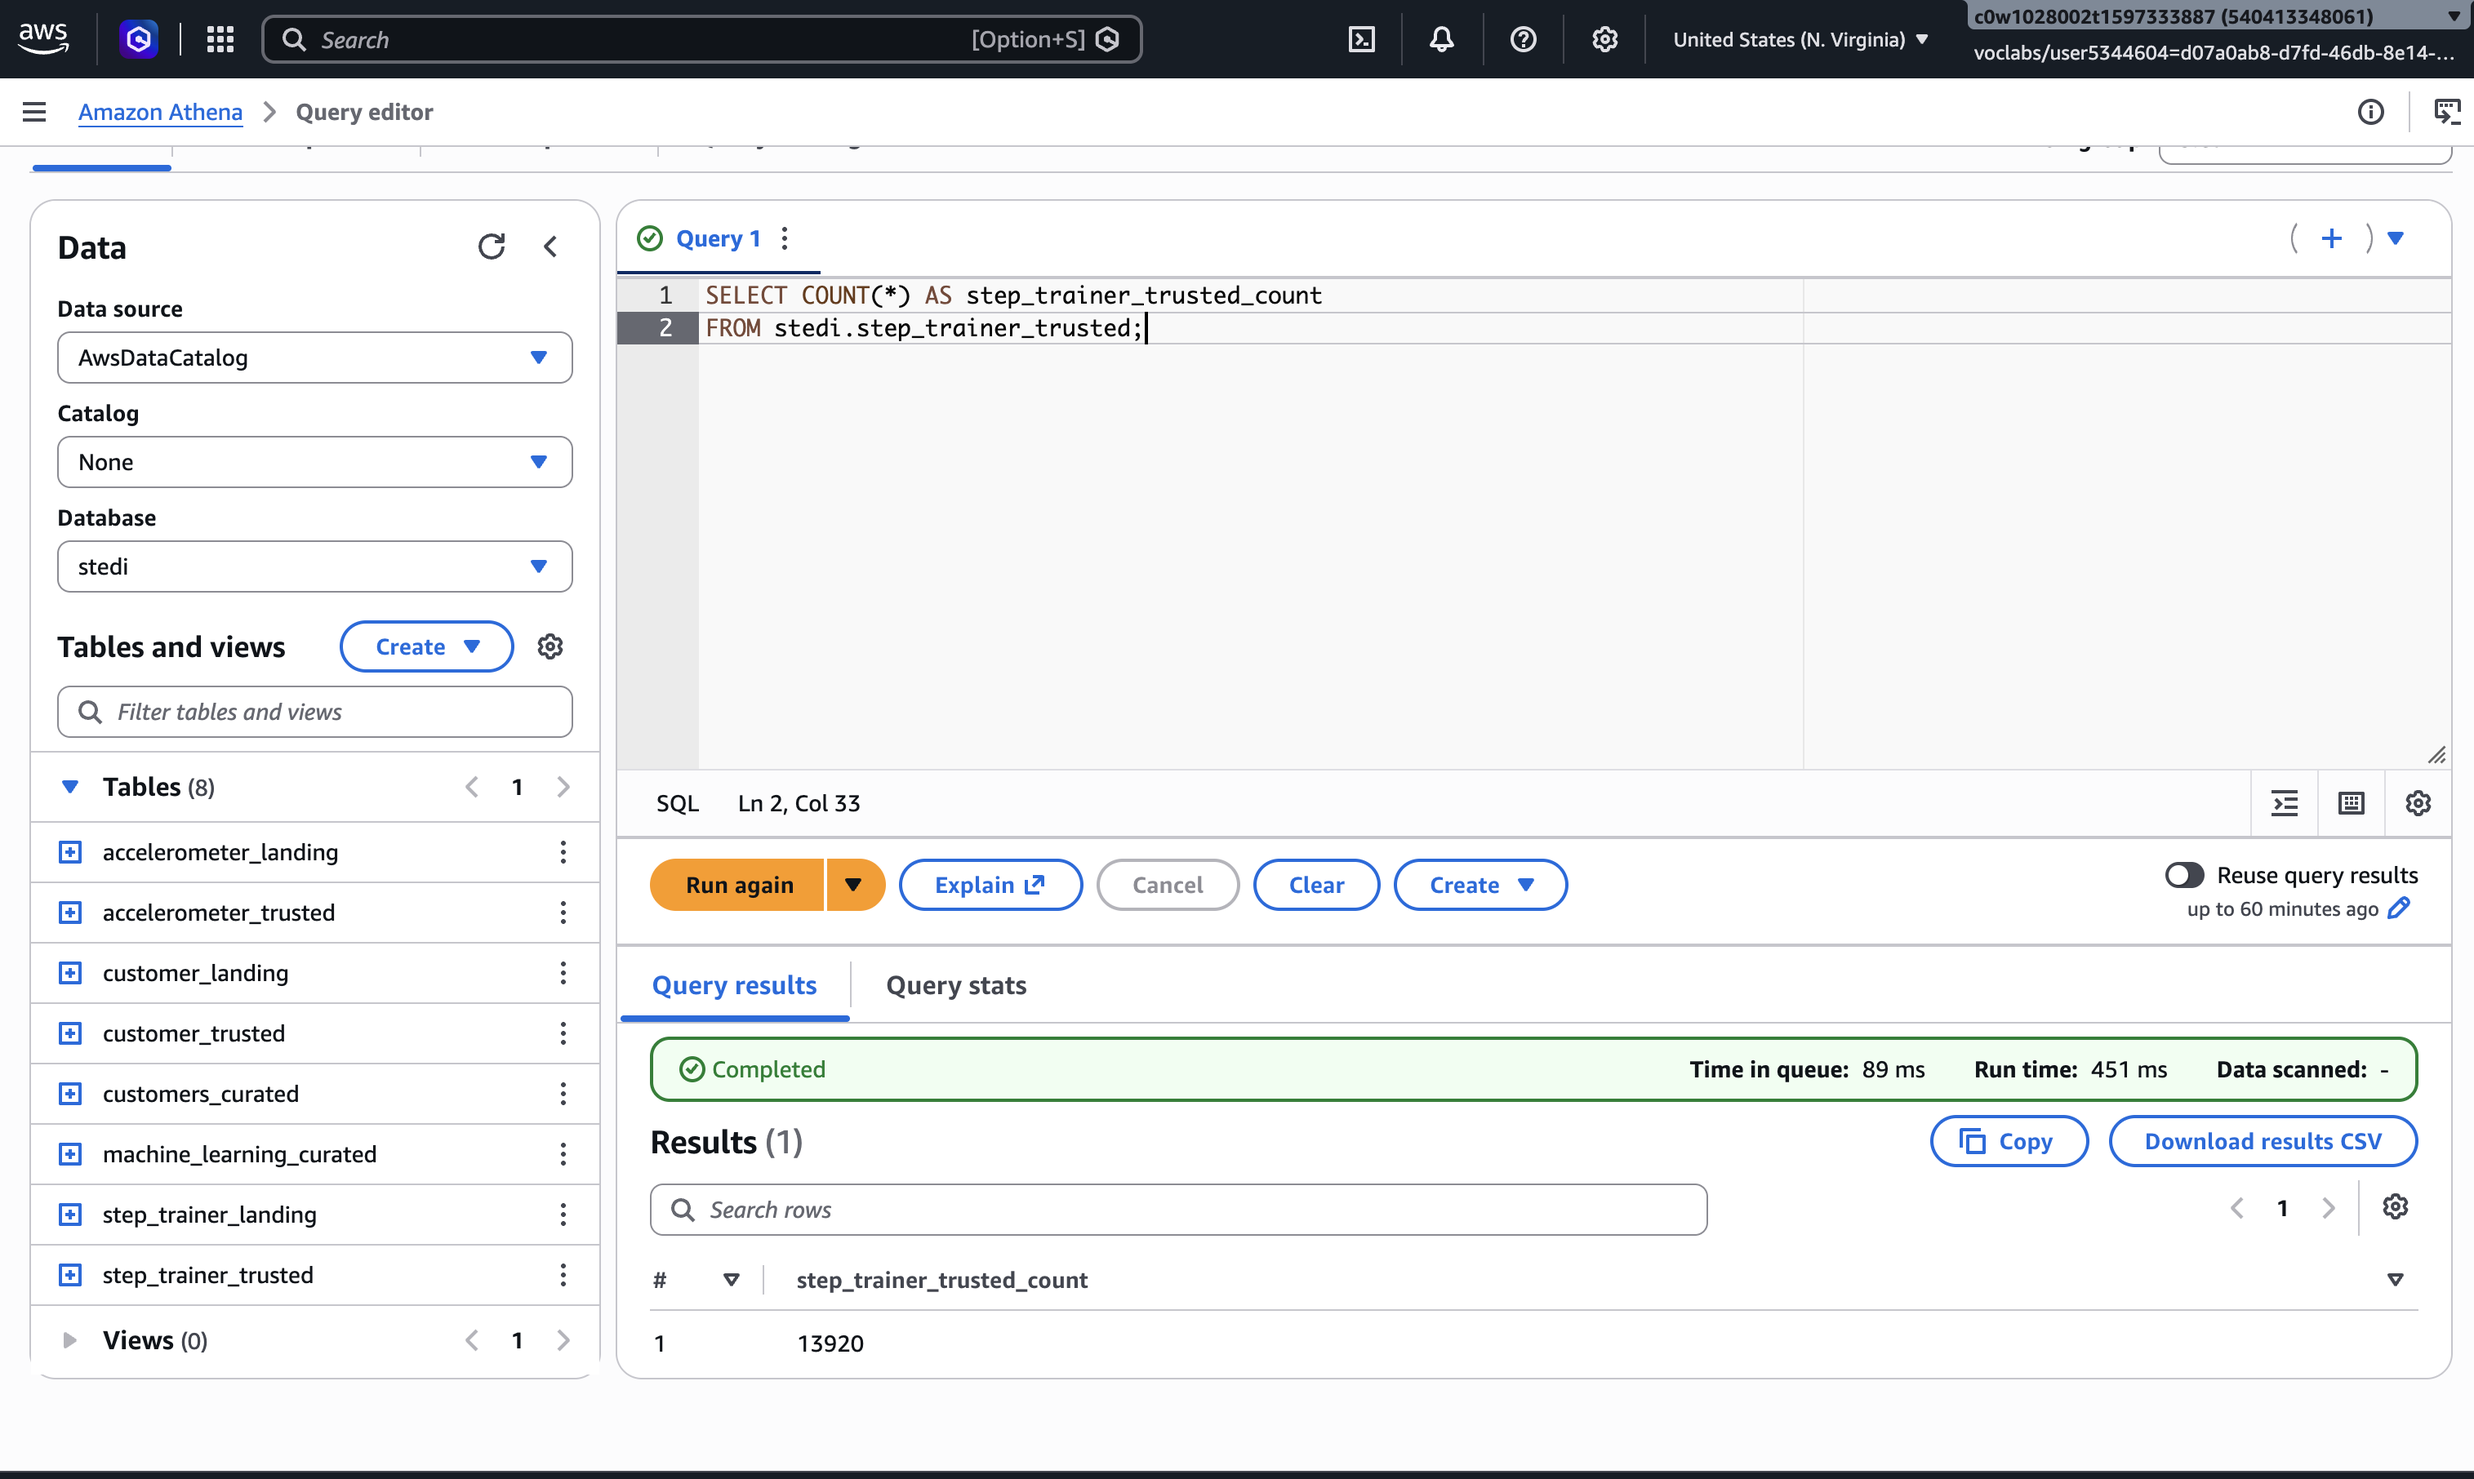
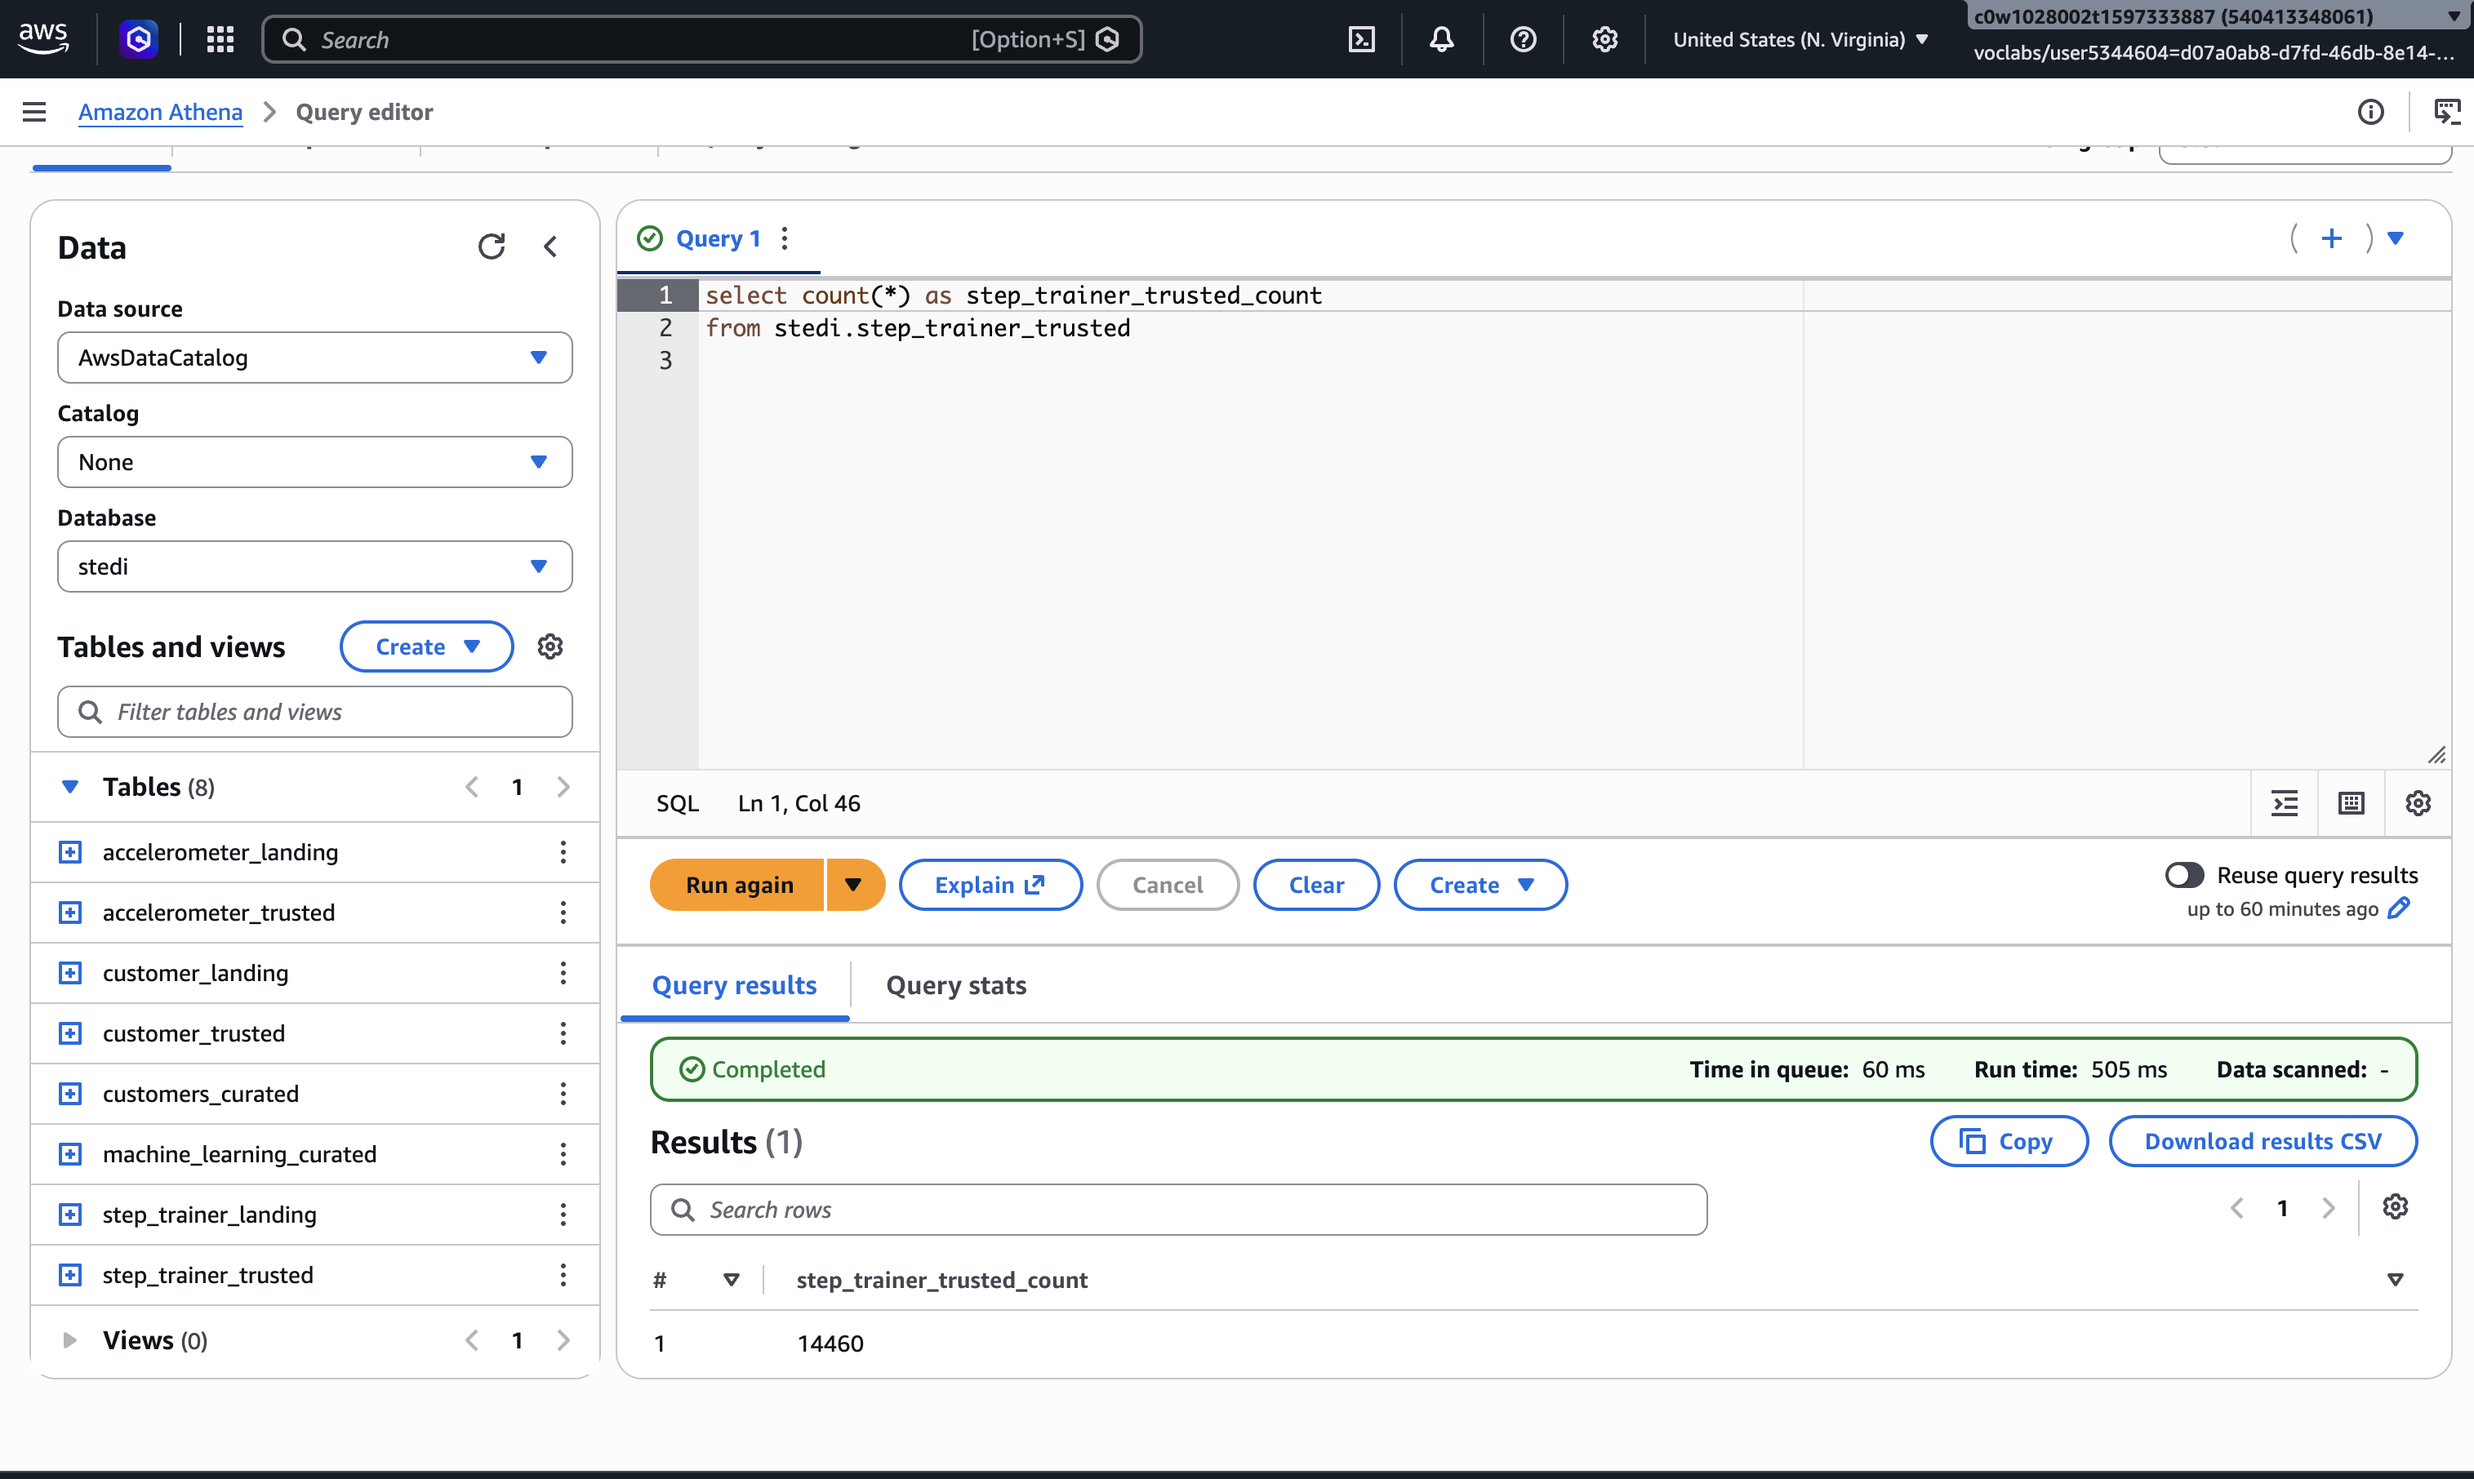
updated step trainer trusted script and screenshot

Changed region(s): [[0.2482, 0.1854, 0.9927, 0.2472], [0.8376, 0.7108, 0.8686, 0.7417]]

diff --git a/glue/step_trainer_trusted.py b/glue/step_trainer_trusted.py
@@ -29,8 +29,8 @@ DEFAULT_DATA_QUALITY_RULESET = """
 # Script generated for node step trainer
 steptrainer_node1792205843927 = glueContext.create_dynamic_frame.from_options(format_options={"multiLine": "false"}, connection_type="s3", format="json", connection_options={"paths": ["s3://wgu-d609-tklein2/landing/step_trainer/"], "recurse": True}, transformation_ctx="steptrainer_node1792205843927")
 
-# Script generated for node curated customers
-curatedcustomers_node1792206002061 = glueContext.create_dynamic_frame.from_catalog(database="stedi", table_name="customers_curated", transformation_ctx="curatedcustomers_node1792206002061")
+# Script generated for node trusted customers
+trustedcustomers_node1792206002061 = glueContext.create_dynamic_frame.from_catalog(database="stedi", table_name="customer_trusted", transformation_ctx="trustedcustomers_node1792206002061")
 
 # Script generated for node SQL Query
 SqlQuery0 = '''
@@ -45,7 +45,7 @@ INNER JOIN (
 ) c
     ON s.serialNumber = c.serialNumber
 '''
-SQLQuery_node1792206042154 = sparkSqlQuery(glueContext, query = SqlQuery0, mapping = {"step_trainer_source":steptrainer_node1792205843927, "customer_source":curatedcustomers_node1792206002061}, transformation_ctx = "SQLQuery_node1792206042154")
+SQLQuery_node1792206042154 = sparkSqlQuery(glueContext, query = SqlQuery0, mapping = {"step_trainer_source":steptrainer_node1792205843927, "customer_source":trustedcustomers_node1792206002061}, transformation_ctx = "SQLQuery_node1792206042154")
 
 # Script generated for node Amazon S3
 EvaluateDataQuality().process_rows(frame=SQLQuery_node1792206042154, ruleset=DEFAULT_DATA_QUALITY_RULESET, publishing_options={"dataQualityEvaluationContext": "EvaluateDataQuality_node1792205997770", "enableDataQualityResultsPublishing": True}, additional_options={"dataQualityResultsPublishing.strategy": "BEST_EFFORT", "observations.scope": "ALL"})
